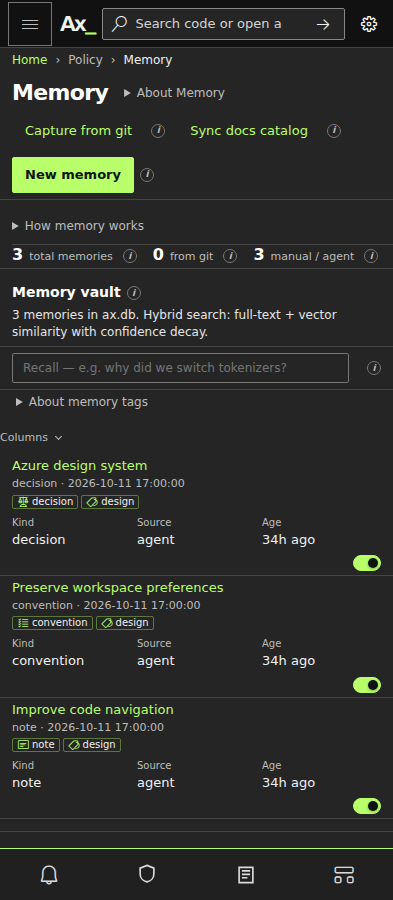
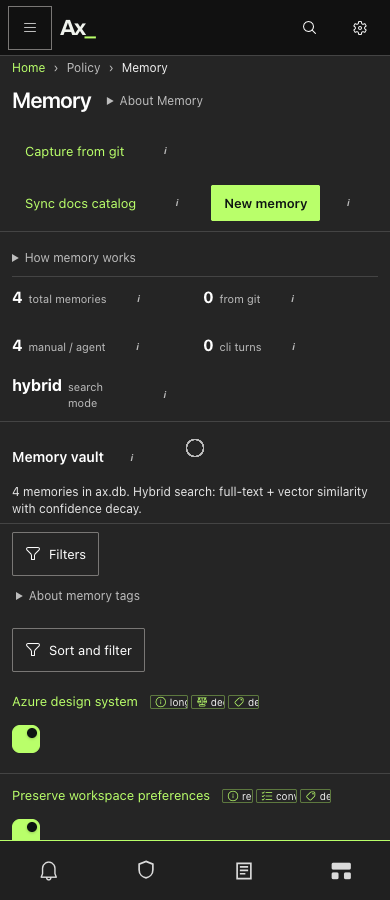
Recapture memory vault screenshots with tiers and an archive search

diff --git a/site/src/content/docs/guides/memory.md b/site/src/content/docs/guides/memory.md
@@ -45,6 +45,8 @@ On the Command Center Memory page, every row shows its tier: working, recent, lo
 
 ![Memory vault — browse, search, and inspect stored memories with hybrid recall](/screenshots/cc-memory-vault-dark.png)
 
+![Archive search on the Memory page: the hit carries the archive tier and is marked recalled from archive](/screenshots/cc-memory-archive-dark.png)
+
 ## Tiers
 
 ```mermaid
